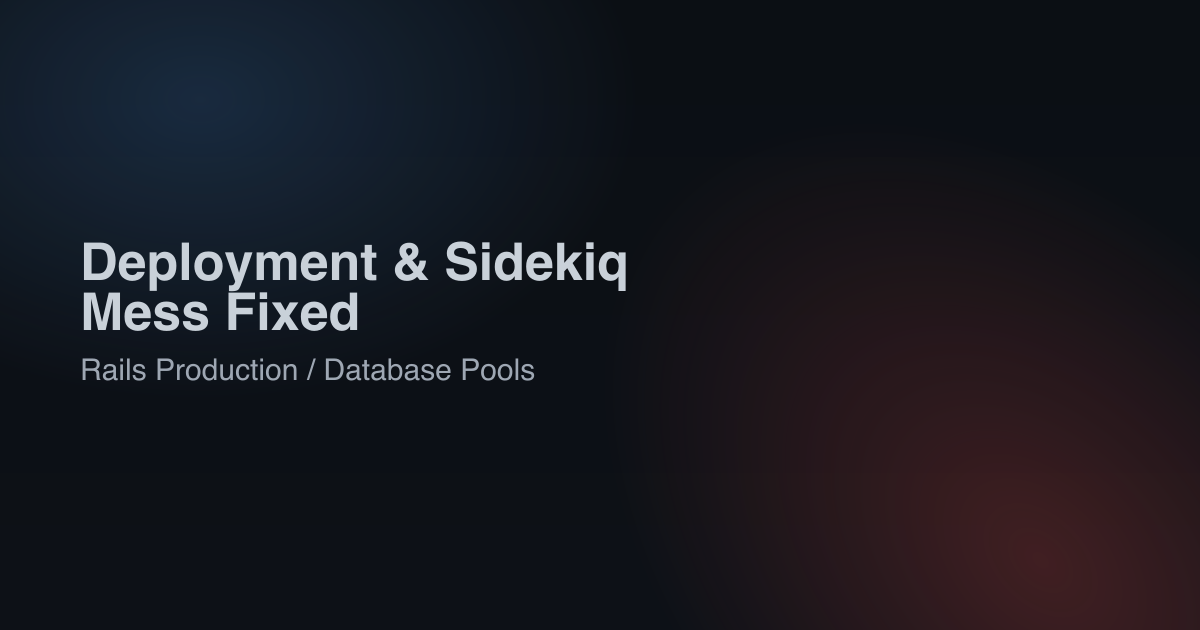
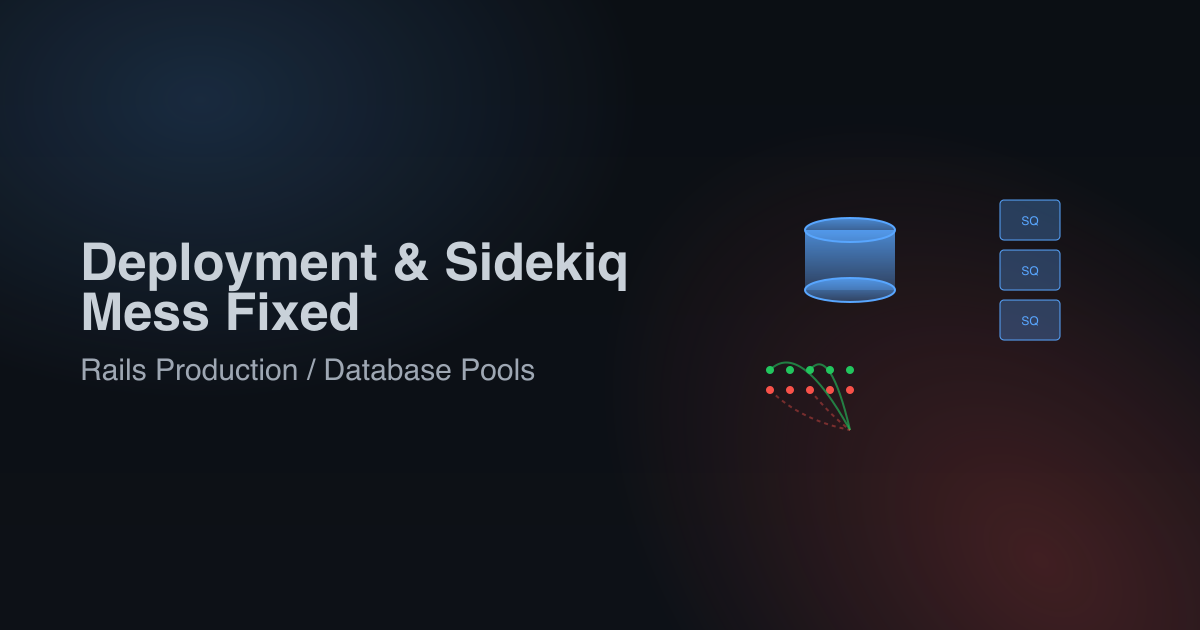
new images

Changed region(s): [[0.6475, 0.3317, 0.7708, 0.4825], [0.8325, 0.3016, 0.8942, 0.5429], [0.6475, 0.573, 0.7092, 0.6937]]

diff --git a/docs/BLOG_POST_WORKFLOW.md b/docs/BLOG_POST_WORKFLOW.md
@@ -84,6 +84,20 @@ Create an SVG file in `assets/images/covers/` with dimensions 1200x630 (LinkedIn
 - **Layout**: Title at y="300", subtitle at y="350", both starting at x="80"
 - **Font sizes**: 56px for main title, 30px for subtitle
 
+### Visual Elements (IMPORTANT!)
+**Don't just create text-only covers!** Add visual elements that relate to the content:
+- **Icons and symbols**: Database cylinders, server boxes, connection lines, chat windows
+- **Visual metaphors**: Waves for realtime, locks for security, timelines for history
+- **Network diagrams**: Nodes and connections for community/architecture topics
+- **UI elements**: Buttons, windows, code blocks, terminal interfaces
+- **Abstract shapes**: That reinforce the theme (gaps, bridges, flows, etc.)
+
+**Examples of good visual elements:**
+- Deployment posts: Server icons, database cylinders, connection pools
+- Community posts: Network nodes, chat windows, timeline elements
+- Technical posts: Code blocks, terminal windows, architecture diagrams
+- Authentication posts: Lock icons, token symbols, security shields
+
 ## Step 3: Convert SVG to PNG
 
 After creating the SVG, run the conversion script to generate the PNG version for LinkedIn sharing:
